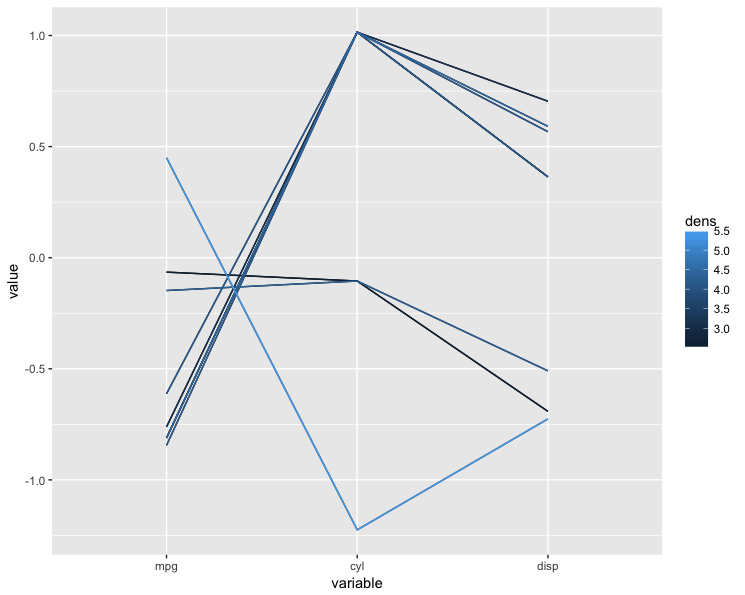
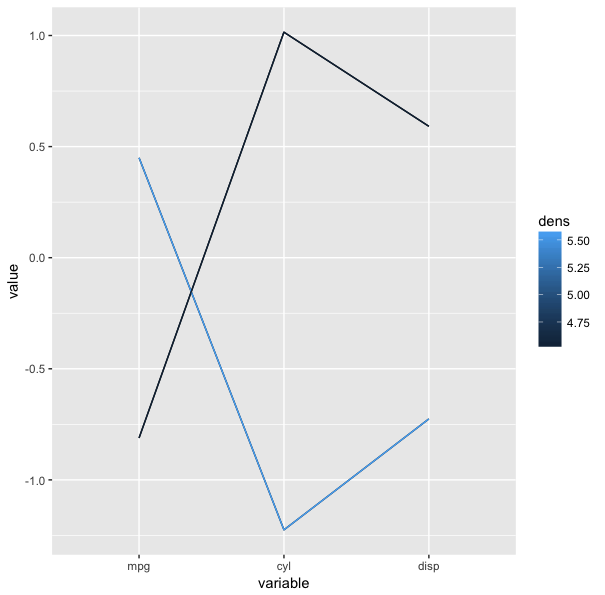
cluster locmax

diff --git a/README.md b/README.md
@@ -28,7 +28,7 @@ If you would like more info, here is link that explains in greater detail.
 
 <h3>How can parallel coordinate helpful?</h3>
 The strength of parallel coordinates is their ability to bring meaningful multivariate patterns and comparisons to light when used interactively for analysis.
-Parallel coordinates can reveal correlations between multiple variables. This is particularly useful when you want to identify which conditions correlate highly with a particular outcome. For instance, which what is the demographic of those who voted for a Donald Trump.
+Parallel coordinates can reveal correlations between multiple variables. This is particularly useful when you want to identify which conditions correlate highly with a particular outcome. For instance, what is the demographic of those who voted for a Donald Trump.
 
 <h3>Example:</h3>
 <h4> Parcoord Package <h4>
@@ -243,8 +243,11 @@ With the following parameters: <br>
 <b> k (Number of nearest neighbors to use for density estimation) = 4 </b>
 
 ```R
-freqparcoord( mtcars[,1:3],m=8,k=4)
+freqparcoord( mtcars[,1:3],m=1,k=4, method = "locmax")
 ```
+</br>
+We employed the <b> locmax </b> method here is to define the clusters. The method uses the local maxima to define the clusters. The rows having the property that their density value is highest in their klm-neighborhood will be plotted.
+
 <img src="vignettes/cluster_freq.png" style="height: 100% width:100%;" >
 
 For more on cluster analysis, you would find the following links helpful. 
